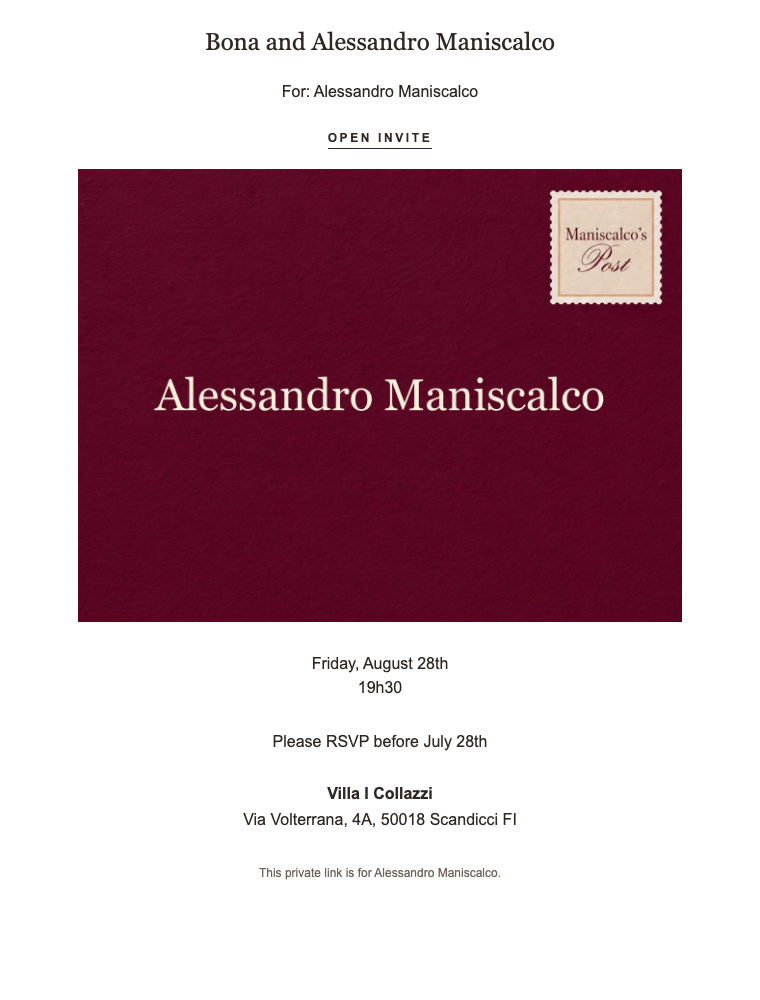
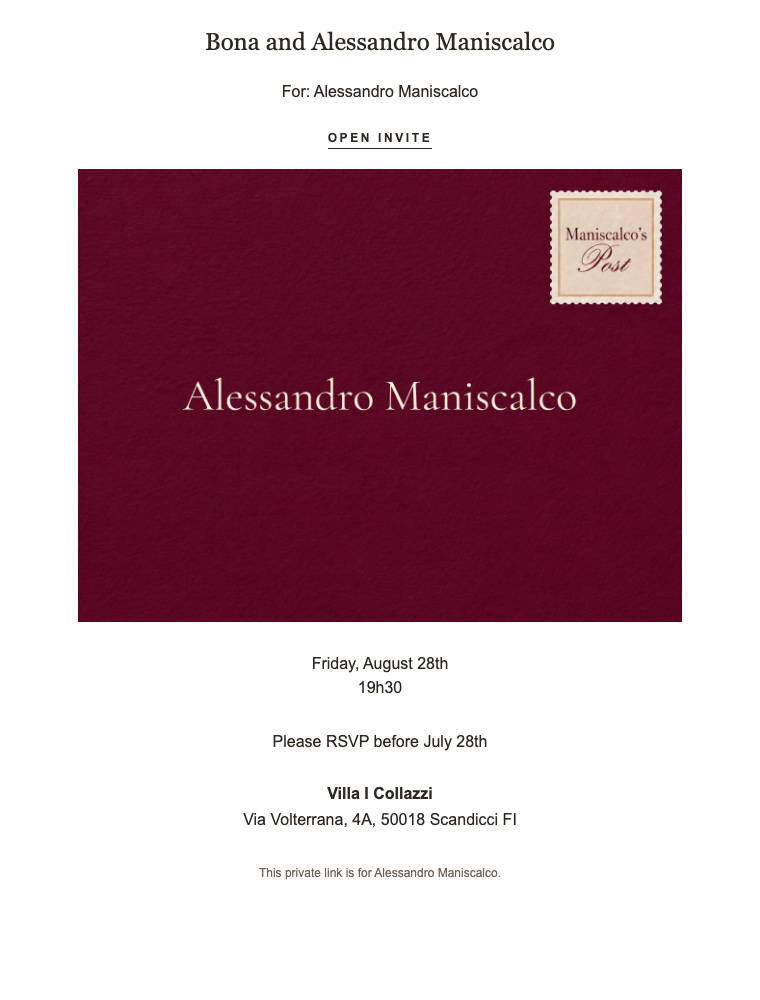
Bundle invite card font rendering

Changed region(s): [[0.5145, 0.372, 0.7868, 0.434], [0.2118, 0.372, 0.4842, 0.434]]

diff --git a/src/lib/providers/invite-card-image.ts b/src/lib/providers/invite-card-image.ts
@@ -1,11 +1,17 @@
 import { readFile } from "node:fs/promises";
+import { createRequire } from "node:module";
 import { join } from "node:path";
 
 import sharp from "sharp";
+import TextToSVG from "text-to-svg";
 
 const CARD_WIDTH = 1254;
 const CARD_HEIGHT = 940;
 const CARD_TEXT_COLOR = "#fbf0dc";
+const nodeRequire = createRequire(import.meta.url);
+const FONT_PATH = nodeRequire.resolve(
+  "@fontsource/cormorant-garamond/files/cormorant-garamond-latin-400-normal.woff",
+);
 const CARD_BACKGROUND_PATH = join(
   process.cwd(),
   "public",
@@ -13,6 +19,7 @@ const CARD_BACKGROUND_PATH = join(
   "collazzi",
   "maniscalco-post-envelope-bg.jpg",
 );
+let cachedTextToSvg: TextToSVG | null = null;
 
 export async function renderInviteCardImage(partyLabel: string) {
   const background = await readFile(CARD_BACKGROUND_PATH);
@@ -25,40 +32,45 @@ export async function renderInviteCardImage(partyLabel: string) {
 }
 
 function renderNameOverlay(partyLabel: string) {
-  const lines = wrapName(partyLabel);
+  const textToSvg = getTextToSvg();
+  const lines = wrapName(partyLabel, textToSvg);
   const fontSize = lines.length > 1 ? 86 : 92;
   const lineHeight = Math.round(fontSize * 1.15);
   const firstBaseline = CARD_HEIGHT / 2 - ((lines.length - 1) * lineHeight) / 2;
 
-  const text = lines
+  const paths = lines
     .map((line, index) => {
       const y = Math.round(firstBaseline + index * lineHeight);
-      return `<text x="${CARD_WIDTH / 2}" y="${y}" text-anchor="middle">${escapeXml(line)}</text>`;
+      return textToSvg.getPath(line, {
+        x: CARD_WIDTH / 2,
+        y,
+        fontSize,
+        anchor: "center middle",
+        attributes: {
+          fill: CARD_TEXT_COLOR,
+        },
+      });
     })
     .join("");
 
   return `<svg width="${CARD_WIDTH}" height="${CARD_HEIGHT}" viewBox="0 0 ${CARD_WIDTH} ${CARD_HEIGHT}" xmlns="http://www.w3.org/2000/svg">
-  <style>
-    text {
-      fill: ${CARD_TEXT_COLOR};
-      font-family: Georgia, 'Times New Roman', serif;
-      font-size: ${fontSize}px;
-      font-weight: 400;
-      dominant-baseline: middle;
-    }
-  </style>
-  ${text}
+  ${paths}
 </svg>`;
 }
 
-function wrapName(value: string) {
+function getTextToSvg() {
+  cachedTextToSvg ??= TextToSVG.loadSync(FONT_PATH);
+  return cachedTextToSvg;
+}
+
+function wrapName(value: string, textToSvg: TextToSVG) {
   const words = value.trim().replace(/\s+/g, " ").split(" ").filter(Boolean);
   if (!words.length) {
     return ["Guest Name"];
   }
 
   const joined = words.join(" ");
-  if (estimateTextWidth(joined, 92) <= 1120) {
+  if (textToSvg.getWidth(joined, { fontSize: 92 }) <= 1120) {
     return [joined];
   }
 
@@ -70,7 +82,7 @@ function wrapName(value: string) {
     }
 
     const candidate = `${current} ${word}`;
-    if (estimateTextWidth(candidate, 86) <= 1040 || acc.length >= 2) {
+    if (textToSvg.getWidth(candidate, { fontSize: 86 }) <= 1040 || acc.length >= 2) {
       acc[acc.length - 1] = candidate;
     } else {
       acc.push(word);
@@ -83,17 +95,4 @@ function wrapName(value: string) {
   }
 
   return [lines.slice(0, -1).join(" "), lines.at(-1) ?? ""];
-}
-
-function estimateTextWidth(value: string, fontSize: number) {
-  return value.length * fontSize * 0.52;
-}
-
-function escapeXml(value: string) {
-  return value
-    .replace(/&/g, "&amp;")
-    .replace(/</g, "&lt;")
-    .replace(/>/g, "&gt;")
-    .replace(/"/g, "&quot;")
-    .replace(/'/g, "&apos;");
 }
